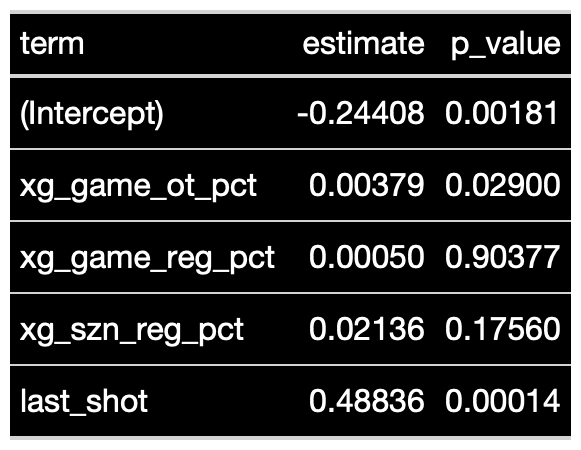
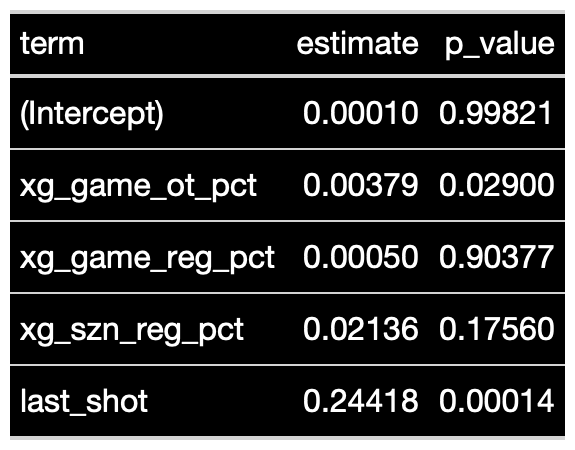
add text

diff --git a/_posts/2022-04-15-post-regulation-1.md b/_posts/2022-04-15-post-regulation-1.md
@@ -11,10 +11,10 @@ By most accounts, the outcome of the NHL's 5 minute 3-on-3 overtime is random. M
 This year, the Panthers, who've by far scored the most goals of any team this season, went 13-2 in overtime. The Avalanche, Hurricanes, and Leafs, the league's next best teams, went about .500.
 </p>
 <p>
-Just how random is overtime?
+Is overtime completely random?
 </p>
 <p>
-Let's explore with a basic descriptive model. We'll regress various team and game characteristics on the outcome of <em>individual games which ended in overtime</em>. Specifically, the predictors will be: a team's xGF% throughout their season, game and overtime (before the winning goal was scored), whether they're playing at home, and whether they had the last shot before the winning goal was scored. A few examples:
+Let's explore this thought with a basic descriptive model. We'll regress various team and game characteristics on the outcome of <em>individual games which ended in overtime</em>. Specifically, the predictors will be: a team's xGF% throughout their season, game and overtime (before the winning goal was scored), and whether they had the last shot before the winning goal was scored. A few examples:
 </p>
 <p>
 <div style="text-align: center"> 
@@ -30,9 +30,18 @@ Using every game that ended in overtime since its inception in 2015, the regress
 </div>
 </p>
 <p>
-<b>Translation: </b>Whether a team had the last shot before the winning goal was scored is the strongest predictor of a win out of the five predictors. It adds about 15% to a team's win probability. A 10% increase in xGF% of a given overtime adds about 3.8% to the team's win probability. This might seem like alot, but 75% of Expected Goals is total domination, which translates to 75-50=25*0.0038... Neither a team's regular season xGF% or their regulation xGF% have an effect on the outcome of the game. 
+By far, the strongest predictor of outcome for games ending in overtime is whether or not a team had the last shot before the winning goal was scored. Having the last shot adds about 13.8% to a team's win probability (63.8%).
 </p>
-
+<p>
+The only other relevant predictor is not a team's xGF% in the regular season, nor in a given game's regulation, but its xGF% in the overtime before the goal was scored. It's a distant second though: a 10% increase in xGF% adds about 1.9% to the team's win probability. This means that if a team dominates overtime with 75% of Expected Goals, its probability of winning only increases 4.7% (54.7%). 
+</p>
+<h5>
+Are all shots equal, though?
+</h5>
+In this model, all shots were considered equal. Given that the last shot before the goal is the most important factor in the outcome of an overtime, we shouldn't just treat them equally, however. Some questions: Do all shots lead to a higher chance in winning? Can we include games that did not end in the overtime to make the analysis more robust? Doesn't every shot matter, and not just the last ones?
+<p>
+In the next post, we'll build a win probability model for the sequence after each shot based on the given shot's characteristics.
+</p>
 
 
 
